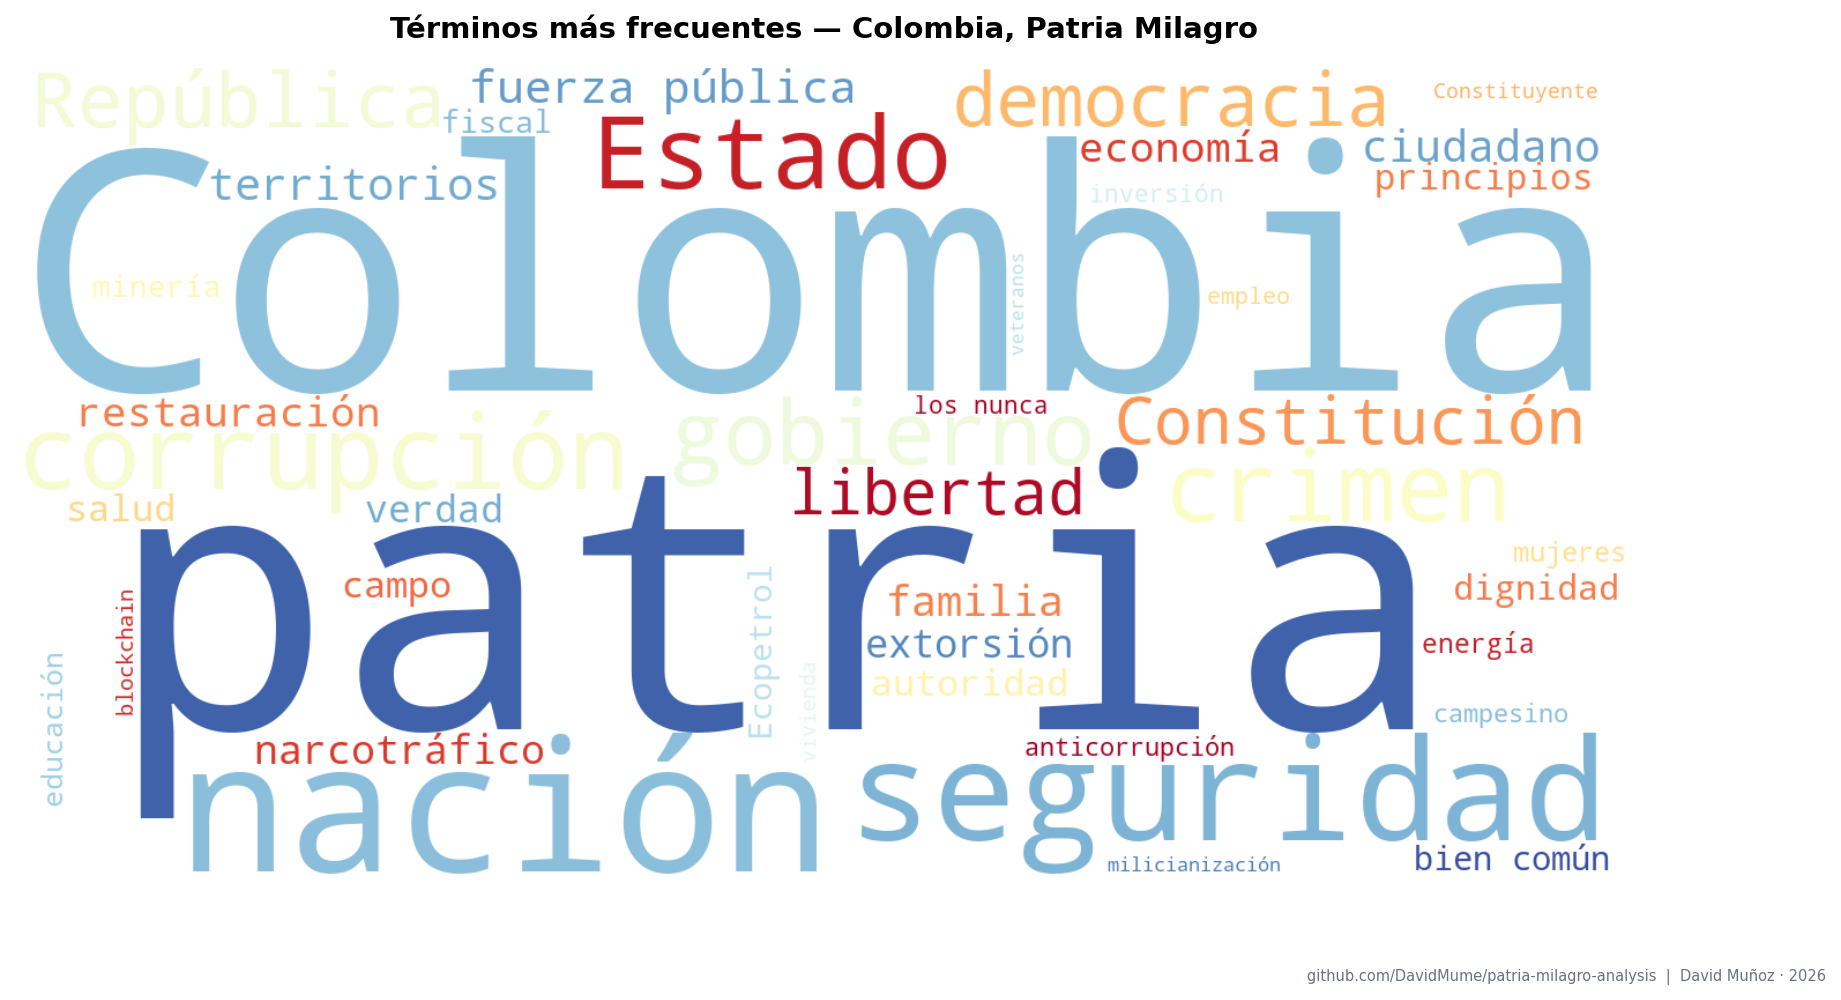
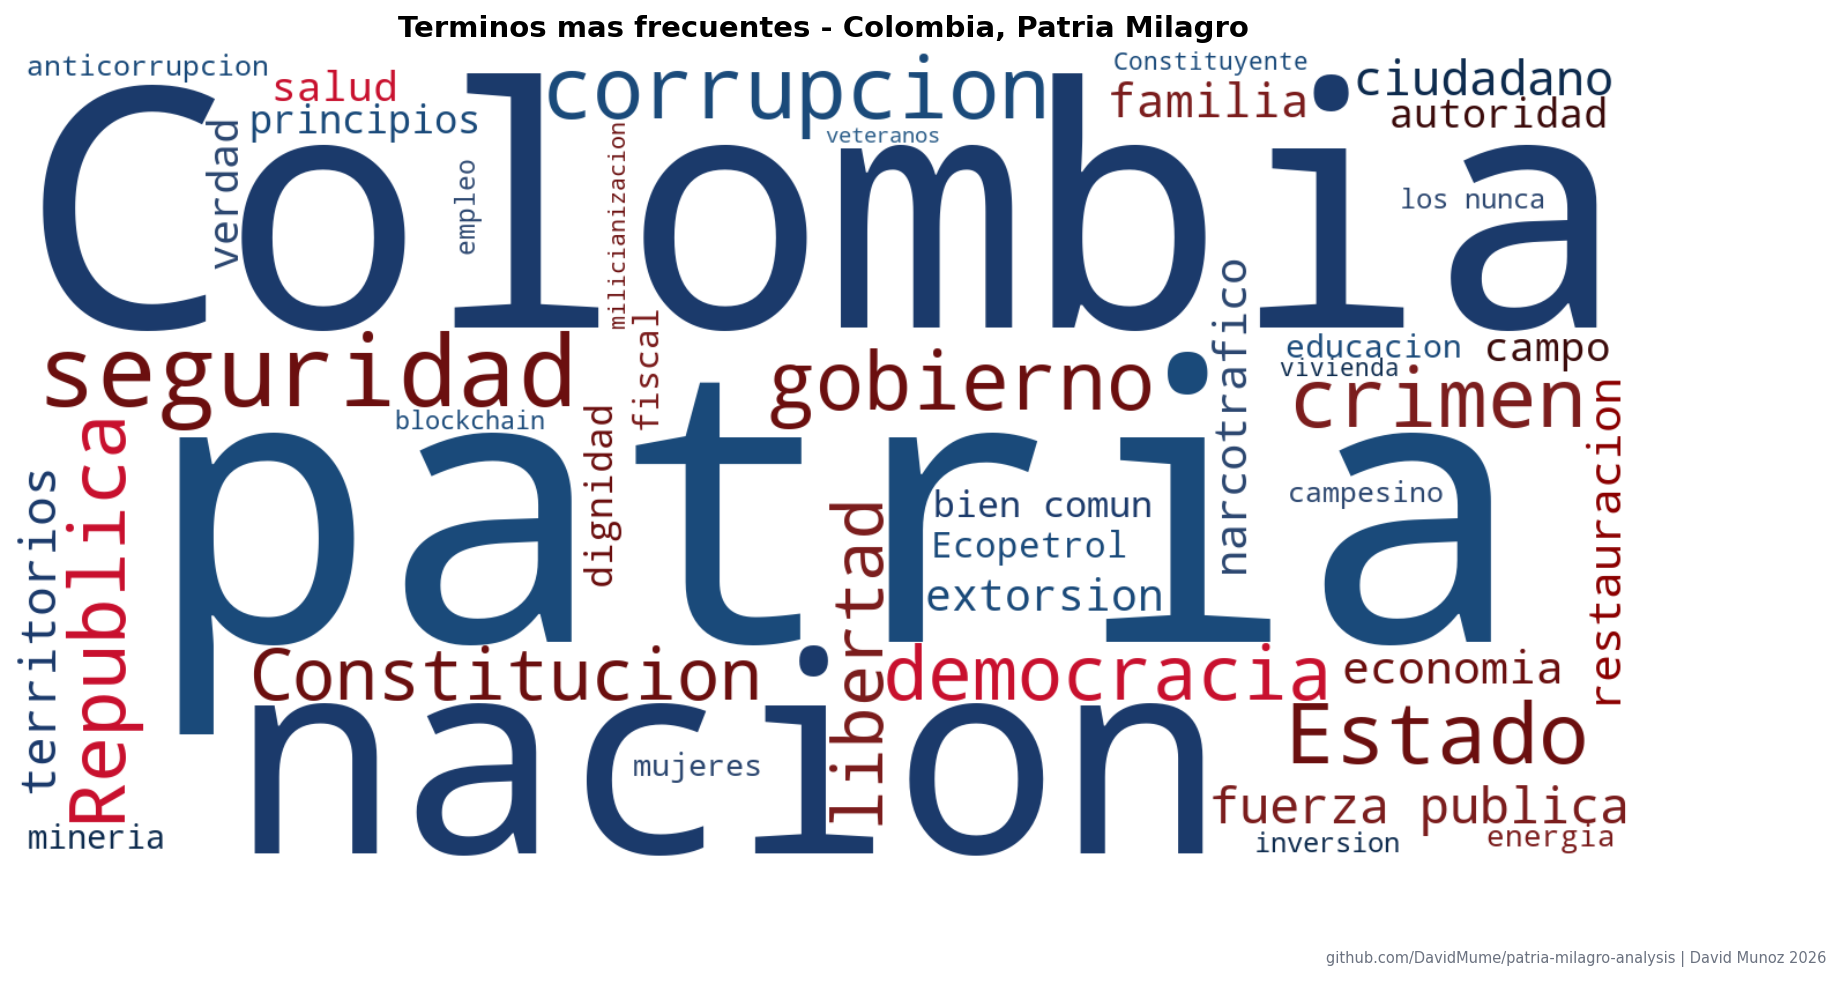
Fix wordcloud colors: replace light green/yellow with dark readable palette

diff --git a/scripts/generar_graficos.py b/scripts/generar_graficos.py
@@ -69,9 +69,27 @@ try:
         "campesino": 20, "inversión": 18, "empleo": 16, "vivienda": 14,
     }
 
+    # Colores oscuros legibles sobre fondo blanco — sin amarillos ni verdes claros
+    COLORES_WC = [
+        "#1B3A6B",  # azul oscuro
+        "#C8102E",  # rojo
+        "#2E5F8A",  # azul medio
+        "#7B1D1D",  # rojo oscuro
+        "#0D2B4E",  # azul muy oscuro
+        "#8B0000",  # dark red
+        "#1A4A7A",  # azul acero
+        "#3B0A0A",  # granate
+        "#2C4770",  # azul pizarra
+        "#6B0F0F",  # rojo vino
+    ]
+
+    import random
+    def color_func(word, font_size, position, orientation, random_state=None, **kwargs):
+        return random.choice(COLORES_WC)
+
     wc = WordCloud(
         width=1400, height=700, background_color="white",
-        colormap="RdYlBu_r", max_words=60,
+        color_func=color_func, max_words=60,
         prefer_horizontal=0.85, min_font_size=10,
     ).generate_from_frequencies(freq)
 